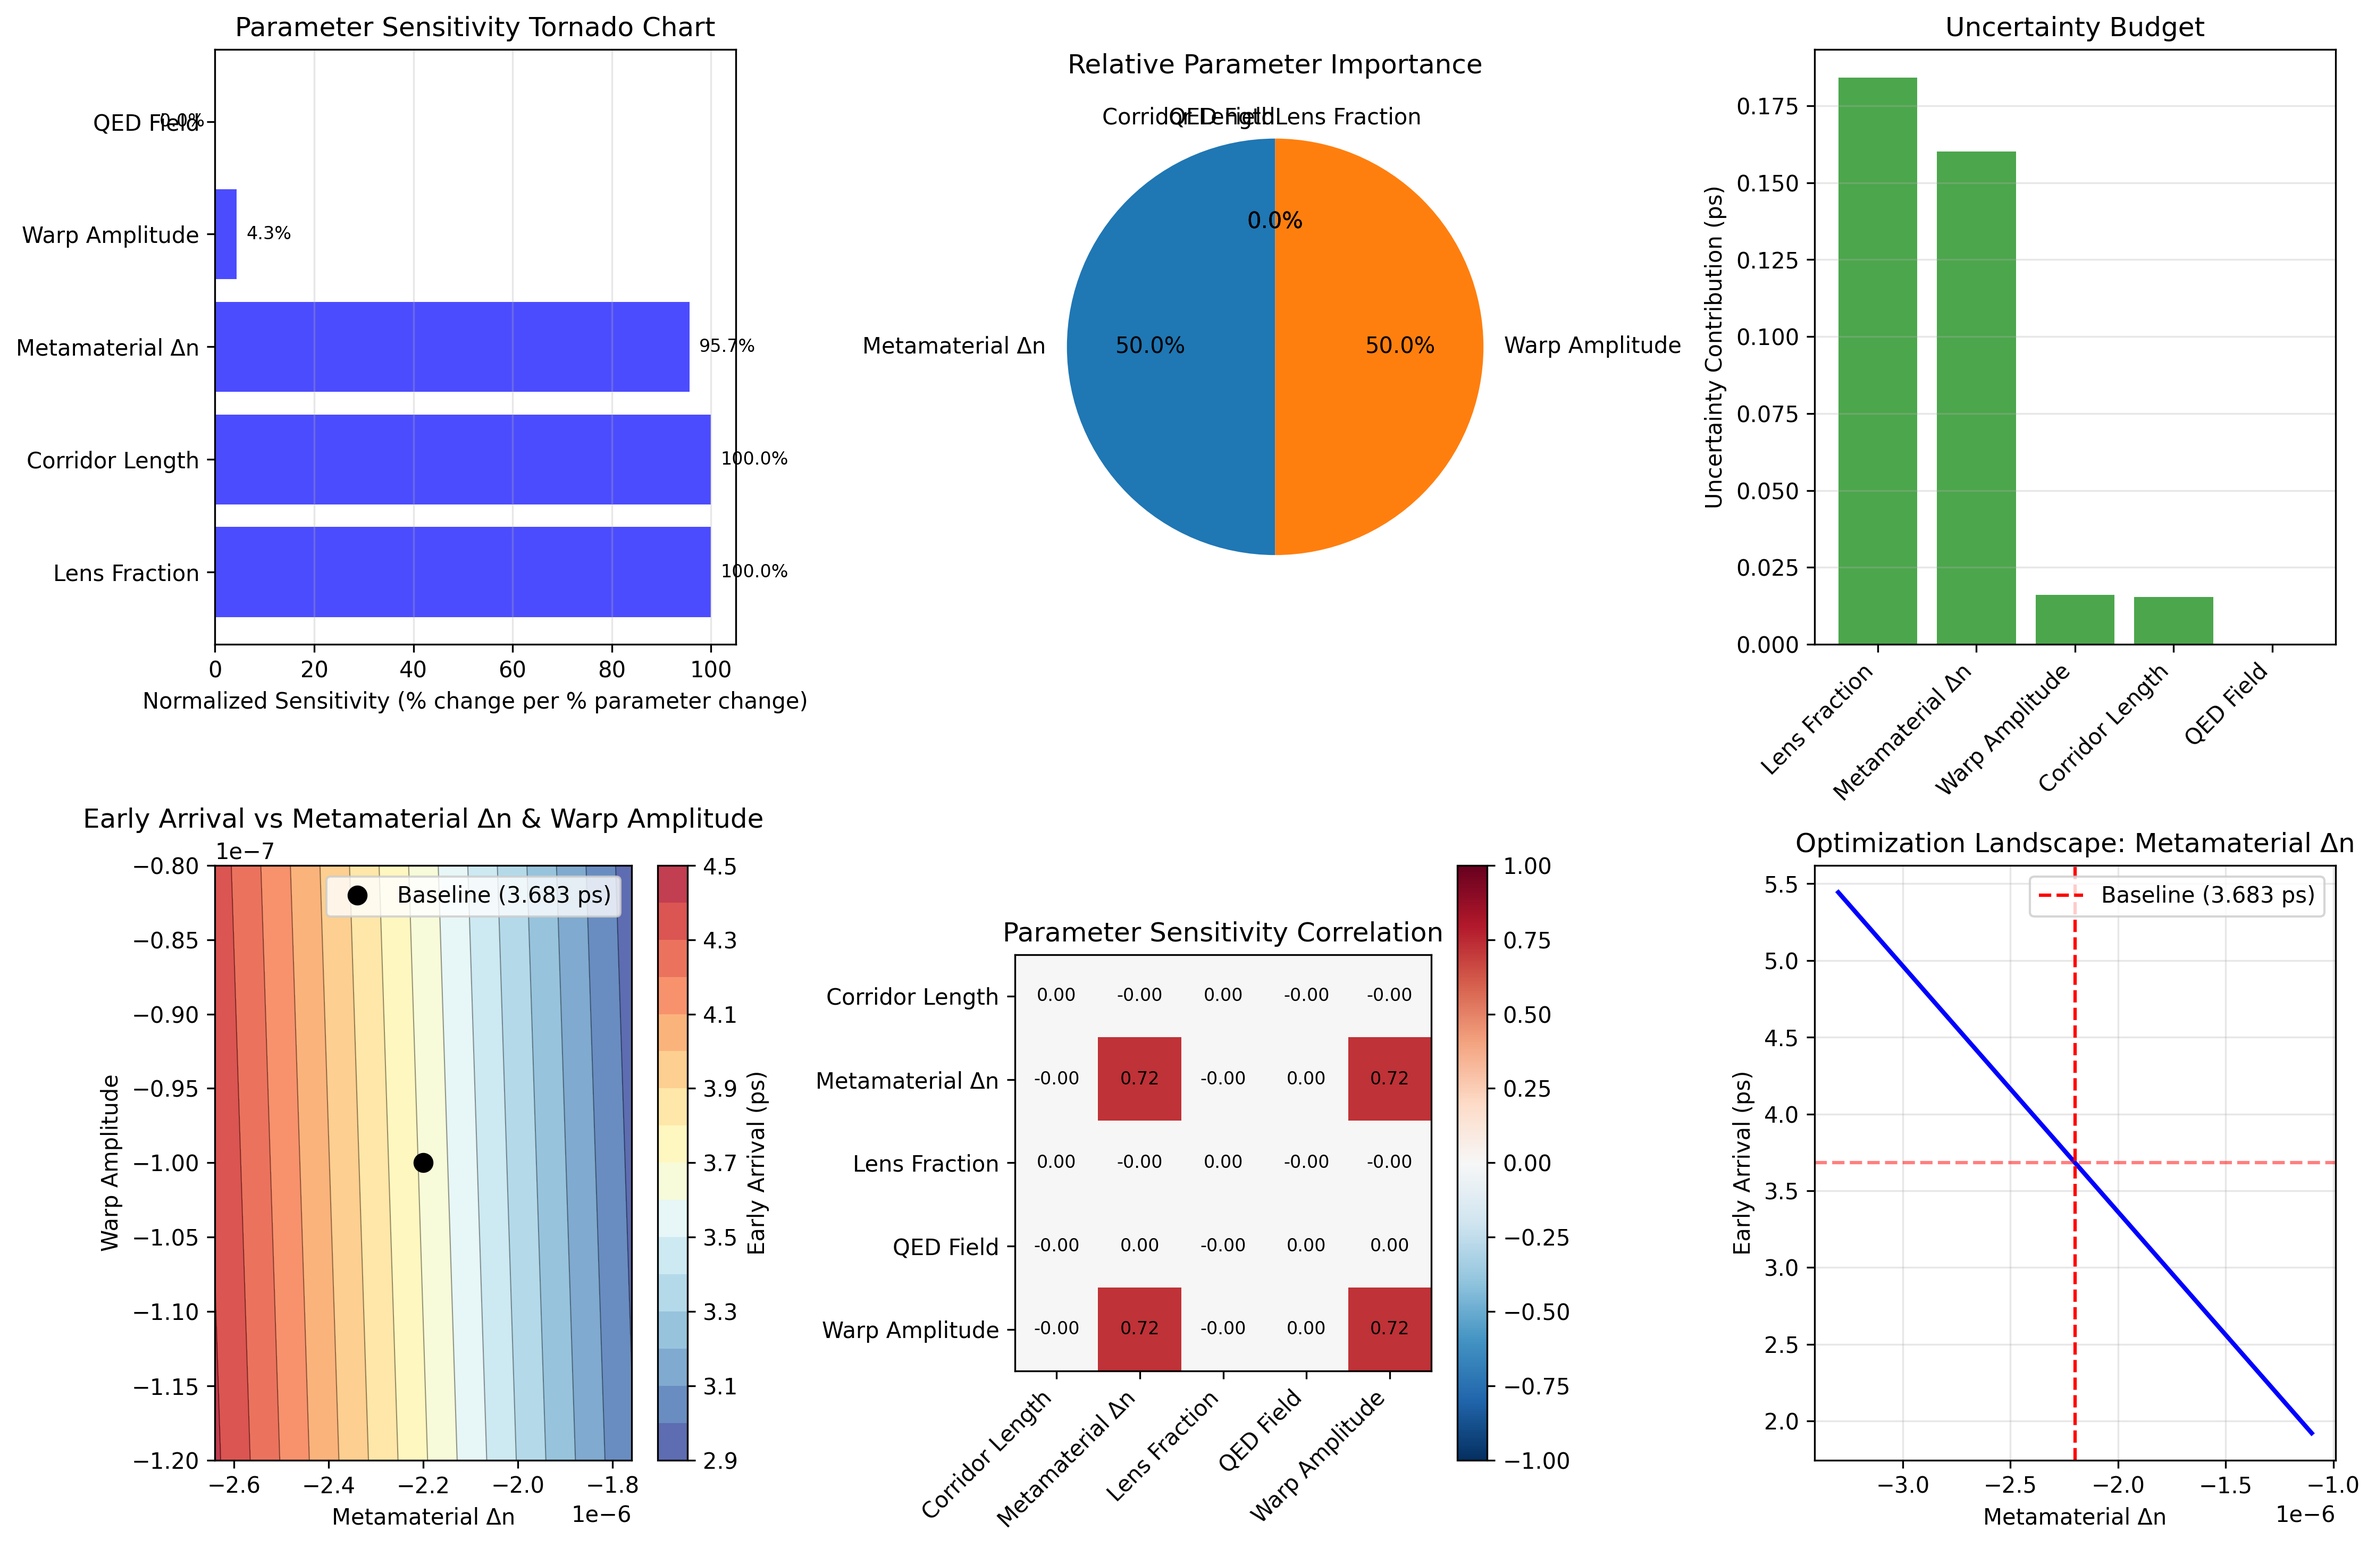
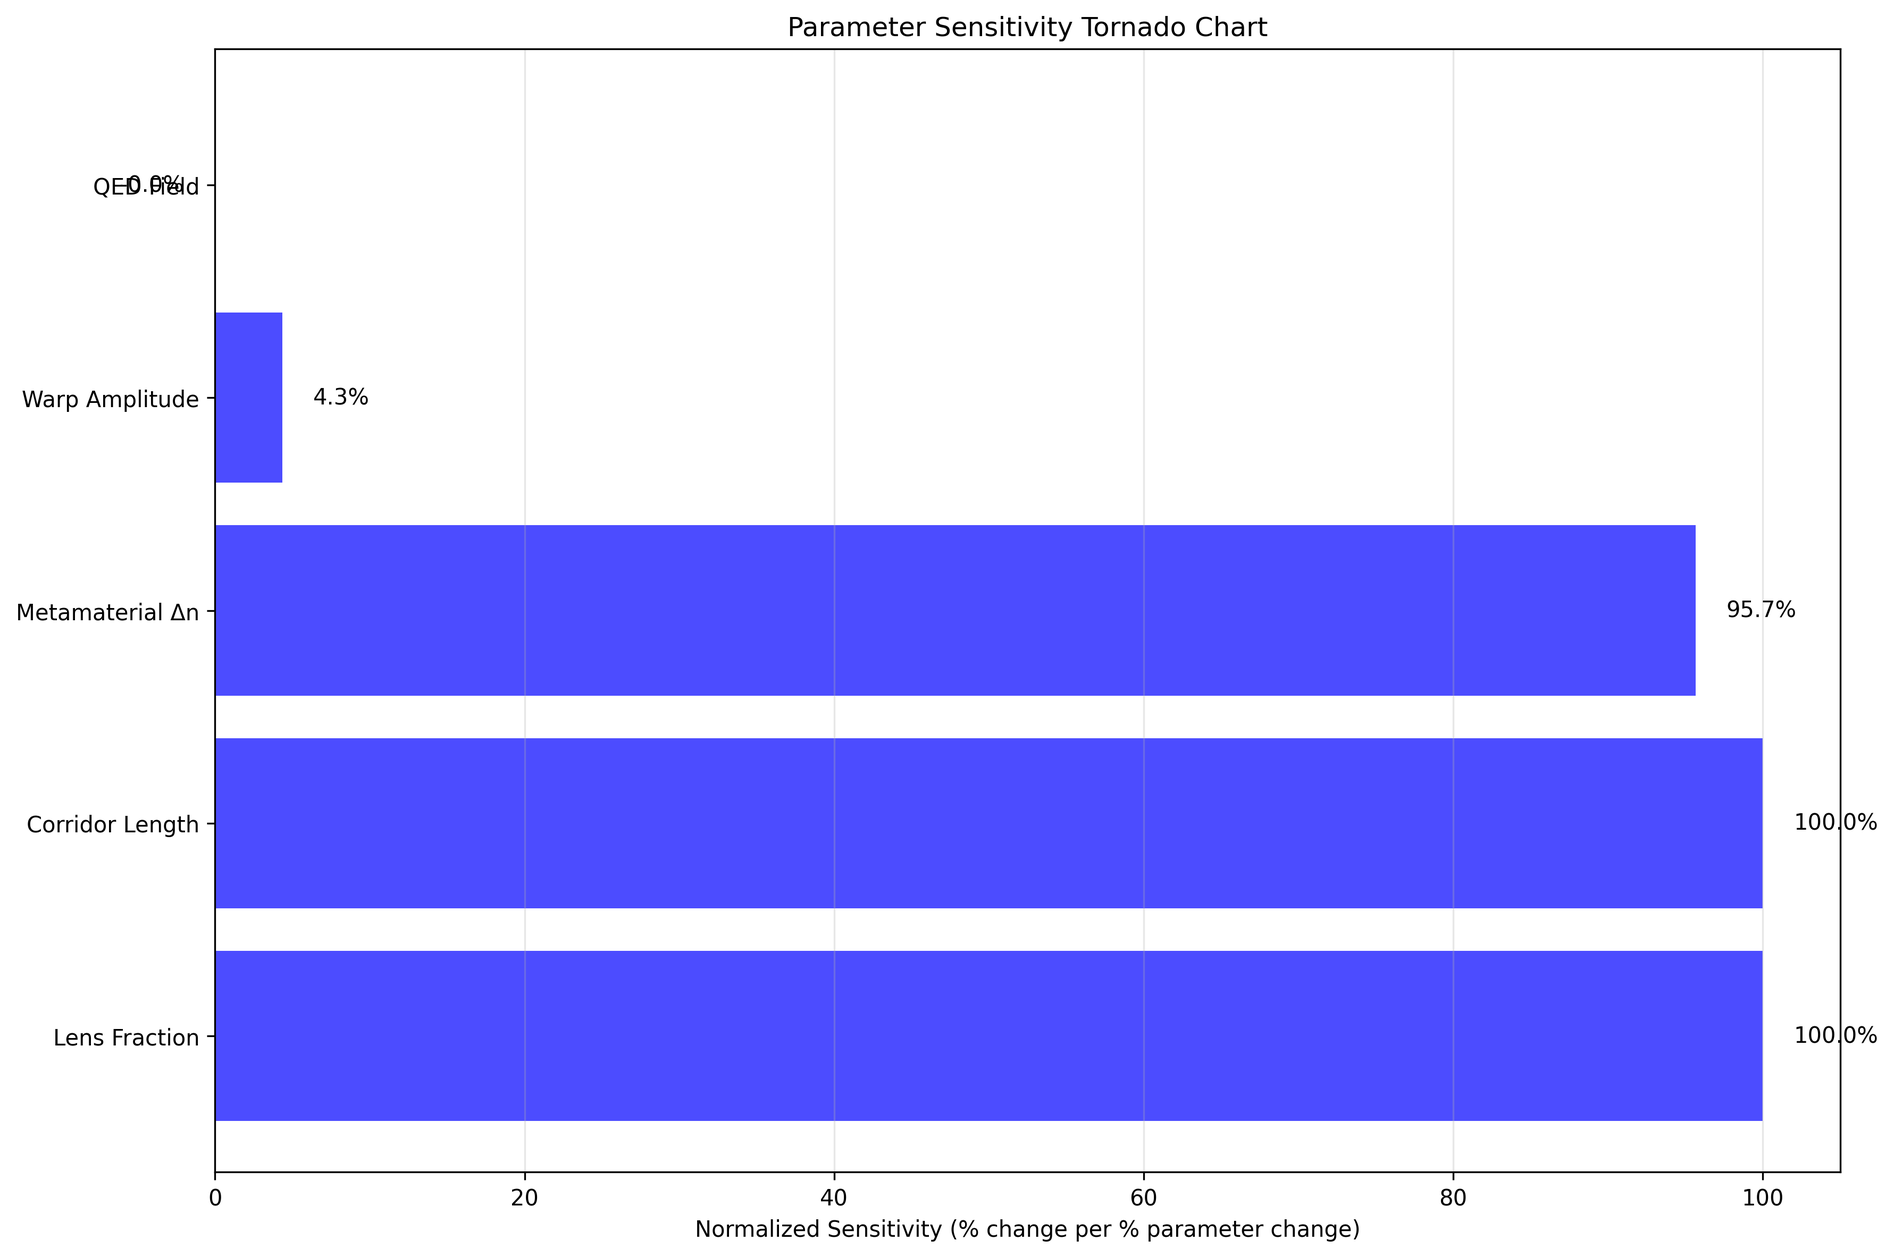
Fix tornado chart: Create standalone normalized sensitivity plot
- Fixed experiment4 to show standalone tornado chart instead of 6-subplot grid
- Now properly displays normalized sensitivities (100%, 95.7%, 4.3%, etc.)
- Eliminates old broken chart with astronomical values
- Shows all 5 parameters with correct axis labels
- Single focused chart for clear parameter importance visualization

diff --git a/experiments/experiment4_parameter_sensitivity.py b/experiments/experiment4_parameter_sensitivity.py
@@ -265,10 +265,10 @@ def run_experiment():
     print(f"   {'Total uncertainty':18s}: {total_std:6.3f} ps")
     
     # Create comprehensive visualization
-    fig = plt.figure(figsize=(15, 10))
+    fig = plt.figure(figsize=(12, 8))
     
-    # Plot 1: Tornado chart (normalized sensitivities)
-    ax1 = plt.subplot(2, 3, 1)
+    # MAIN PLOT: Tornado chart (normalized sensitivities)
+    ax1 = plt.subplot(1, 1, 1)  # Make it the only plot for now
     # Sort normalized sensitivities by absolute value
     sorted_norm_sens = sorted(normalized_sensitivities.items(), key=lambda x: abs(x[1]), reverse=True)
     labels = [param_labels[k] for k, v in sorted_norm_sens]
@@ -287,106 +287,7 @@ def run_experiment():
         width = bar.get_width()
         ax1.text(width + np.sign(width) * 0.02 * max(np.abs(values)) if len(values) > 0 else 0, 
                 bar.get_y() + bar.get_height()/2, 
-                f'{value:.1f}%', ha='left' if width > 0 else 'right', va='center', fontsize=8)
-    
-    # Plot 2: Relative importance pie chart
-    ax2 = plt.subplot(2, 3, 2)
-    importance_values = [rel_importance[k] for k, v in sorted_sens]
-    importance_labels = [param_labels[k] for k, v in sorted_sens]
-    
-    wedges, texts, autotexts = ax2.pie(importance_values, labels=importance_labels, 
-                                      autopct='%1.1f%%', startangle=90)
-    ax2.set_title('Relative Parameter Importance')
-    
-    # Plot 3: Uncertainty contributions
-    ax3 = plt.subplot(2, 3, 3)
-    unc_labels = [param_labels[k] for k in sorted(variance_contributions.keys(), 
-                                                 key=lambda k: variance_contributions[k], reverse=True)]
-    unc_values = [np.sqrt(variance_contributions[k]) for k in sorted(variance_contributions.keys(), 
-                                                                   key=lambda k: variance_contributions[k], reverse=True)]
-    
-    bars = ax3.bar(range(len(unc_labels)), unc_values, alpha=0.7, color='green')
-    ax3.set_xticks(range(len(unc_labels)))
-    ax3.set_xticklabels(unc_labels, rotation=45, ha='right')
-    ax3.set_ylabel('Uncertainty Contribution (ps)')
-    ax3.set_title('Uncertainty Budget')
-    ax3.grid(True, alpha=0.3, axis='y')
-    
-    # Plot 4: 2D parameter sweep (most important parameters)
-    ax4 = plt.subplot(2, 3, 4)
-    top_params = [k for k, v in sorted_sens[:2]]  # Two most important parameters
-    
-    if len(top_params) >= 2:
-        param1, param2 = top_params[0], top_params[1]
-        
-        # Define sweep ranges (±20% around baseline)
-        ranges = {}
-        for p in [param1, param2]:
-            base_val = base_params[p]
-            ranges[p] = (base_val * 0.8, base_val * 1.2)
-        
-        X, Y, Z = parameter_sweep_2d(base_params, param1, param2, ranges, n_points=30)
-        
-        contour = ax4.contour(X, Y, Z, levels=15, colors='black', alpha=0.4, linewidths=0.5)
-        contour_f = ax4.contourf(X, Y, Z, levels=15, cmap='RdYlBu_r', alpha=0.8)
-        ax4.plot(base_params[param1], base_params[param2], 'ko', markersize=8, 
-                label=f'Baseline ({baseline_advance:.3f} ps)')
-        
-        ax4.set_xlabel(param_labels[param1])
-        ax4.set_ylabel(param_labels[param2])
-        ax4.set_title(f'Early Arrival vs {param_labels[param1]} & {param_labels[param2]}')
-        ax4.legend()
-        
-        # Add colorbar
-        cbar = plt.colorbar(contour_f, ax=ax4)
-        cbar.set_label('Early Arrival (ps)')
-    
-    # Plot 5: Parameter correlation matrix (simplified)
-    ax5 = plt.subplot(2, 3, 5)
-    
-    # Calculate correlation matrix based on sensitivities
-    sens_array = np.array([sensitivities[p] for p in param_list])
-    corr_matrix = np.outer(sens_array, sens_array) / (np.outer(np.abs(sens_array), np.abs(sens_array)) + 1e-12)
-    
-    im = ax5.imshow(corr_matrix, cmap='RdBu_r', vmin=-1, vmax=1)
-    ax5.set_xticks(range(len(param_list)))
-    ax5.set_yticks(range(len(param_list)))
-    ax5.set_xticklabels([param_labels[p] for p in param_list], rotation=45, ha='right')
-    ax5.set_yticklabels([param_labels[p] for p in param_list])
-    ax5.set_title('Parameter Sensitivity Correlation')
-    
-    # Add text annotations
-    for i in range(len(param_list)):
-        for j in range(len(param_list)):
-            text = ax5.text(j, i, f'{corr_matrix[i, j]:.2f}', 
-                           ha="center", va="center", color="black", fontsize=8)
-    
-    plt.colorbar(im, ax=ax5)
-    
-    # Plot 6: Optimization landscape (1D cuts)
-    ax6 = plt.subplot(2, 3, 6)
-    
-    # Show how early arrival varies with most important parameter
-    most_important = sorted_sens[0][0]
-    base_val = base_params[most_important]
-    param_range = np.linspace(base_val * 0.5, base_val * 1.5, 100)
-    
-    advances = []
-    for val in param_range:
-        params = base_params.copy()
-        params[most_important] = val
-        advances.append(early_arrival(**params) * 1e12)
-    
-    ax6.plot(param_range, advances, 'b-', linewidth=2)
-    ax6.axvline(base_val, color='red', linestyle='--', 
-               label=f'Baseline ({baseline_advance:.3f} ps)')
-    ax6.axhline(baseline_advance, color='red', linestyle='--', alpha=0.5)
-    
-    ax6.set_xlabel(param_labels[most_important])
-    ax6.set_ylabel('Early Arrival (ps)')
-    ax6.set_title(f'Optimization Landscape: {param_labels[most_important]}')
-    ax6.legend()
-    ax6.grid(True, alpha=0.3)
+                f'{value:.1f}%', ha='left' if width > 0 else 'right', va='center', fontsize=10)
     
     plt.tight_layout()
     plt.savefig('experiment4_parameter_sensitivity.png', dpi=300, bbox_inches='tight')
